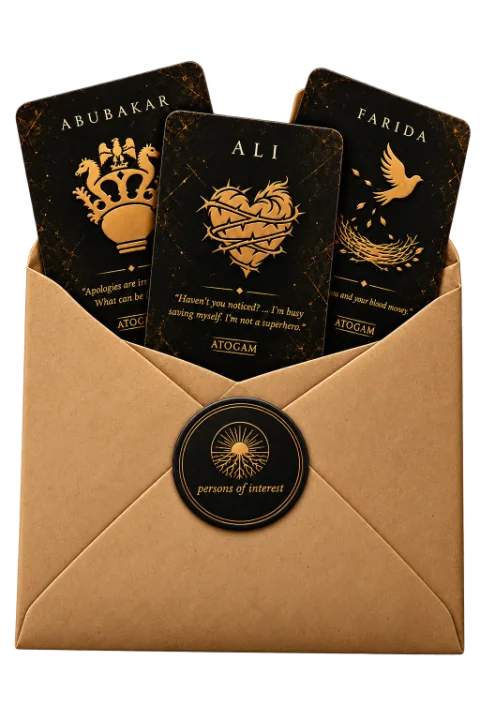
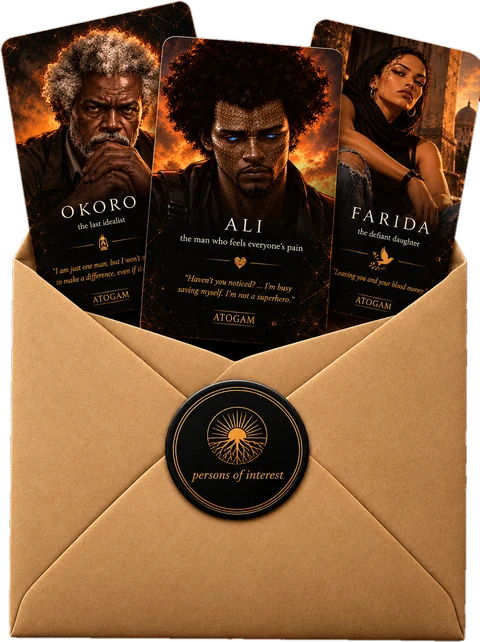
fixes

diff --git a/raindance/release.css b/raindance/release.css
@@ -185,7 +185,11 @@ body.rd {
     display: flex;
     align-items: center;
     justify-content: space-between;
+    transition: background-color 0.2s, border-color 0.2s;
+    border-bottom: 1px solid transparent;
 }
+/* Phone: clear over the first screen, solid once the page scrolls, so it never sits on top of content. */
+.s-header.is-solid { background: rgba(15, 11, 8, 0.94); border-bottom-color: rgba(239, 228, 207, 0.1); }
 .s-mark img { height: 20px; width: auto; }
 .s-nav { display: none; }
 .rd .s-pill {
@@ -377,7 +381,8 @@ body.rd {
     align-items: center;
     text-align: center;
     gap: 8px;
-    padding: 0 2px 12px;
+    padding: 14px 8px 10px;
+    border: 1px solid rgba(239, 228, 207, 0.12);
     border-radius: 3px;
 }
 .s-ed-img { height: 150px; display: flex; align-items: flex-end; justify-content: center; }
@@ -387,11 +392,12 @@ body.rd {
 .s-ed-hc { height: 150px; }
 .s-ed-name { font-family: var(--cinzel); font-weight: 700; font-size: 13px; color: var(--head); }
 .s-ed-price { font-family: var(--cinzel); font-weight: 700; font-size: 15px; color: var(--gold); }
-.s-ed-act { font-family: var(--cinzel); font-weight: 600; font-size: 10.5px; letter-spacing: 0.08em; color: #f2be48; }
-.s-ed:hover .s-ed-act { color: var(--link-hover); }
+/* A real button in each edition card, so the three books read as buyable. */
+.s-ed-act { width: 100%; height: 36px; margin-top: 4px; display: flex; align-items: center; justify-content: center; border-radius: 2px; background: var(--gold); font-family: var(--cinzel); font-weight: 700; font-size: 11px; letter-spacing: 0.1em; color: #1a120c; }
+.s-ed:hover .s-ed-act { background: #f6ce6e; }
 
 .s-bundle {
-    border: 1px solid var(--gold-line);
+    border: 1px solid rgba(239, 228, 207, 0.12);
     border-radius: 3px;
     background: var(--box);
     overflow: clip;
@@ -400,42 +406,27 @@ body.rd {
 }
 .s-bundle-art {
     position: relative;
-    height: 360px;
+    height: 280px;
     padding-top: 16px;
     display: flex;
     align-items: center;
     justify-content: center;
-    background: radial-gradient(ellipse at 50% 55%, rgba(207, 145, 62, 0.18), rgba(23, 17, 12, 0) 65%);
 }
-.s-bundle-art img { height: 330px; width: auto; filter: drop-shadow(0 20px 28px rgba(0, 0, 0, 0.6)); }
+.rd .s-bundle-art .tag { background: rgba(15, 11, 8, 0.85); color: var(--gold); box-shadow: inset 0 0 0 1px rgba(242, 190, 72, 0.35); }
+.s-bundle-art img { height: 250px; width: auto; filter: drop-shadow(0 20px 28px rgba(0, 0, 0, 0.6)); }
 .s-bundle-body { padding: 18px 18px 20px; display: flex; flex-direction: column; gap: 12px; }
 .s-bundle-head { display: flex; justify-content: space-between; align-items: baseline; gap: 10px; }
 .s-bundle-head h3 { font-family: var(--cinzel); font-weight: 700; font-size: 23px; line-height: 1.2; color: var(--head); }
 .s-bundle-head .price { font-size: 19px; }
-.s-parts { display: grid; grid-template-columns: 1fr 1fr; gap: 8px; }
-.s-parts li {
-    display: flex;
-    flex-direction: column;
-    align-items: center;
-    gap: 8px;
-    padding: 12px 8px 10px;
-    border: 1px solid rgba(239, 228, 207, 0.12);
-    border-radius: 3px;
-    background: var(--ground);
-    font-size: 13px;
-    line-height: 1.3;
-    color: var(--cream);
-    text-align: center;
-}
-.s-part-img { height: 118px; display: flex; align-items: center; justify-content: center; }
-.s-part-img img { max-height: 118px; object-fit: contain; filter: drop-shadow(0 8px 12px rgba(0, 0, 0, 0.5)); }
-.s-part-name { font-family: var(--cinzel); font-weight: 600; font-size: 13px; line-height: 1.3; color: var(--head); }
-.s-part-sub { margin-top: -4px; font-size: 12.5px; line-height: 1.4; color: var(--muted); }
-/* The hardcover leads the bundle: full width on phone, bigger image. */
-.s-parts .s-part-hc { grid-column: span 2; padding-top: 16px; background: radial-gradient(ellipse at 50% 45%, rgba(207, 145, 62, 0.16), var(--ground) 70%); border-color: var(--gold-dim); }
-.s-part-hc .s-part-img { height: 160px; }
-.s-part-hc .s-part-img img { max-height: 160px; }
-.s-part-hc .s-part-name { font-size: 15px; color: var(--gold); }
+/* What's inside: one quiet strip, as on the free page, so the box stays the hero. */
+.s-inside { margin-top: 2px; padding-top: 14px; border-top: 1px solid var(--hair); font-family: var(--cinzel); font-weight: 600; font-size: 10px; letter-spacing: 0.24em; color: var(--muted); text-align: center; }
+.s-parts { display: grid; grid-template-columns: repeat(5, minmax(0, 1fr)); gap: 4px; align-items: start; text-align: center; }
+.s-parts li { display: flex; flex-direction: column; align-items: center; gap: 6px; }
+.s-part-img { height: 82px; display: flex; align-items: flex-start; justify-content: center; }
+.s-part-img img { height: 82px; width: auto; max-width: 100%; object-fit: contain; filter: drop-shadow(0 6px 8px rgba(0, 0, 0, 0.6)); }
+.s-part-name { font-size: 12px; line-height: 1.25; color: var(--cream); }
+/* The tee render has its own dark backdrop: fade its edges into the card. */
+.s-part-tee { -webkit-mask-image: radial-gradient(ellipse 50% 50% at 50% 50%, #000 70%, transparent 100%); mask-image: radial-gradient(ellipse 50% 50% at 50% 50%, #000 70%, transparent 100%); }
 .s-bundle-cta { display: flex; flex-direction: column; gap: 12px; }
 .s-bundle-cta .note { font-size: 13px; color: var(--muted); text-align: center; }
 .s-ed-foot { padding: 6px 8px 0; font-size: 13px; line-height: 1.5; color: var(--muted); text-align: center; }
@@ -693,23 +684,22 @@ body.rd {
     .s-ed-hc { height: 170px; }
     .s-ed-name { font-size: 16px; }
     .s-ed-price { font-size: 18px; }
-    .s-ed-act { font-size: 12px; }
-    .s-bundle-art { height: auto; min-height: 420px; padding-top: 0; background: radial-gradient(ellipse at 50% 55%, rgba(207, 145, 62, 0.2), rgba(23, 17, 12, 0) 65%); }
+    .s-ed-act { height: 42px; font-size: 12.5px; }
+    .s-bundle-art { height: auto; min-height: 420px; padding-top: 0; }
     .s-bundle-art img { height: 380px; }
     .s-bundle-art .tag { left: 16px; top: 16px; }
-    .s-bundle-body { padding: 36px; gap: 18px; }
+    .s-bundle { display: grid; grid-template-columns: 1fr 1.3fr; }
+    .s-inside { padding-top: 0; border: 0; font-size: 12px; letter-spacing: 0.3em; text-align: left; }
+    .s-bundle-body { padding: 36px; gap: 18px; justify-content: center; }
     .s-bundle-head { gap: 12px; }
     .s-bundle-head h3 { font-size: 30px; }
     .s-bundle-head .price { font-size: 24px; }
-    .s-parts { grid-template-columns: repeat(5, minmax(0, 1fr)); gap: 10px; }
-    .s-parts .s-part-hc { grid-column: auto; padding-top: 12px; }
-    .s-part-hc .s-part-img { height: 90px; }
-    .s-part-hc .s-part-img img { max-height: 90px; }
-    .s-part-hc .s-part-name { font-size: 13px; }
-    .s-parts li { padding: 12px 6px; }
-    .s-part-img { height: 90px; }
-    .s-part-img img { max-height: 90px; filter: none; }
-    .s-bundle-cta { flex-direction: row; align-items: center; gap: 18px; }
+    .s-parts { gap: 10px; }
+    .s-part-img { height: 96px; align-items: center; }
+    .s-part-img img { height: auto; max-height: 96px; }
+    .s-part-name { font-size: 13.5px; line-height: 1.3; }
+    .s-bundle-cta { align-items: flex-start; gap: 12px; }
+    .s-bundle-cta .btn { padding: 0 32px; white-space: nowrap; }
     .s-bundle-cta .note { font-size: 14px; text-align: left; }
     .s-ed-foot { text-align: left; padding: 0; font-size: 14px; }
 

diff --git a/raindance/index.html b/raindance/index.html
@@ -28,8 +28,8 @@
     <link rel="preconnect" href="https://fonts.googleapis.com">
     <link rel="preconnect" href="https://fonts.gstatic.com" crossorigin>
     <link href="https://fonts.googleapis.com/css2?family=Cinzel:wght@400;600;700&family=Spectral:ital,wght@0,300;0,400;0,500;0,600;1,300;1,400&display=swap" rel="stylesheet">
-    <link rel="stylesheet" href="/raindance/release.css?v=20261008e">
-    <script src="/raindance/release.js?v=20261008e"></script>
+    <link rel="stylesheet" href="/raindance/release.css?v=20261008k">
+    <script src="/raindance/release.js?v=20261008k"></script>
 
     <!-- Meta Pixel Code -->
     <script>
@@ -186,19 +186,19 @@
                     <span class="s-ed-img"><img class="s-ed-eb" src="/raindance/assets/web/p-ebook.webp" alt="" width="720" height="712" loading="lazy"></span>
                     <span class="s-ed-name">Ebook</span>
                     <span class="s-ed-price">₦5,000</span>
-                    <span class="s-ed-act" data-label>BUY →</span>
+                    <span class="s-ed-act" data-label data-after="BUY">PREORDER</span>
                 </a>
                 <a class="s-ed" href="#" data-pay="paperback" data-name="Paperback">
                     <span class="s-ed-img"><img class="s-ed-pb" src="/raindance/assets/web/p-paperback.webp" alt="" width="636" height="720" loading="lazy"></span>
                     <span class="s-ed-name">Paperback</span>
                     <span class="s-ed-price">₦10,000</span>
-                    <span class="s-ed-act" data-label data-after="BUY →">PREORDER →</span>
+                    <span class="s-ed-act" data-label data-after="BUY">PREORDER</span>
                 </a>
                 <a class="s-ed" href="#" data-pay="hardcover" data-name="Hardcover">
                     <span class="s-ed-img"><img class="s-ed-hc" src="/raindance/assets/web/p-hardcover.webp" alt="" width="720" height="687" loading="lazy"></span>
                     <span class="s-ed-name">Hardcover</span>
                     <span class="s-ed-price">₦25,000</span>
-                    <span class="s-ed-act" data-label data-after="BUY →">PREORDER →</span>
+                    <span class="s-ed-act" data-label data-after="BUY">PREORDER</span>
                 </a>
             </div>
 
@@ -212,16 +212,17 @@
                         <h3>The Raindance Bundle</h3>
                         <span class="price">₦50,000</span>
                     </div>
+                    <p class="s-inside">WHAT’S INSIDE</p>
                     <ul class="s-parts">
-                        <li class="s-part-hc"><span class="s-part-img"><img src="/raindance/assets/web/p-hardcover.webp" alt="" loading="lazy"></span><span class="s-part-name">Signed hardcover</span><span class="s-part-sub">Hand-numbered, one of 50</span></li>
-                        <li><span class="s-part-img"><img src="/raindance/assets/web/p-shirt-mask.webp" alt="" loading="lazy"></span><span class="s-part-name">Rainmaker tee</span></li>
-                        <li><span class="s-part-img"><img src="/raindance/assets/web/p-envelope-cards.webp" alt="" loading="lazy"></span><span class="s-part-name">Six character cards</span></li>
-                        <li><span class="s-part-img"><img src="/raindance/assets/web/p-paper-folded.webp" alt="" loading="lazy"></span><span class="s-part-name">The Nigerian Sentinel front page</span></li>
-                        <li><span class="s-part-img"><img src="/raindance/assets/web/p-bookmark.webp" alt="" loading="lazy"></span><span class="s-part-name">Series bookmark</span></li>
+                        <li><span class="s-part-img"><img src="/raindance/assets/web/p-hardcover.webp" alt="" loading="lazy"></span><span class="s-part-name">Signed hardcover</span></li>
+                        <li><span class="s-part-img"><img class="s-part-tee" src="/raindance/assets/web/p-shirt-mask.webp" alt="" loading="lazy"></span><span class="s-part-name">Rainmaker tee</span></li>
+                        <li><span class="s-part-img"><img src="/raindance/assets/web/p-envelope-cards.webp?v=2" alt="" loading="lazy"></span><span class="s-part-name">Character cards</span></li>
+                        <li><span class="s-part-img"><img src="/raindance/assets/web/p-paper-folded.webp" alt="" loading="lazy"></span><span class="s-part-name">Sentinel front page</span></li>
+                        <li><span class="s-part-img"><img src="/raindance/assets/web/p-bookmark.webp" alt="" loading="lazy"></span><span class="s-part-name">Bookmark</span></li>
                     </ul>
                     <div class="s-bundle-cta">
                         <a class="btn btn-gold" href="#" data-pay="bundle" data-name="Raindance Bundle" data-after="BUY THE BUNDLE">PREORDER THE BUNDLE</a>
-                        <p class="note">Numbers go in order of payment.</p>
+                        <p class="note">Only 50 made, each hardcover numbered in order of payment.</p>
                     </div>
                 </div>
             </div>
@@ -346,6 +347,6 @@
     </nav>
 </footer>
 
-<script src="/raindance/sales.js?v=20261008e"></script>
+<script src="/raindance/sales.js?v=20261008k"></script>
 </body>
 </html>

diff --git a/raindance/free.html b/raindance/free.html
@@ -28,8 +28,8 @@
     <link rel="preconnect" href="https://fonts.googleapis.com">
     <link rel="preconnect" href="https://fonts.gstatic.com" crossorigin>
     <link href="https://fonts.googleapis.com/css2?family=Cinzel:wght@400;600;700&family=Spectral:ital,wght@0,300;0,400;0,500;1,300;1,400&display=swap" rel="stylesheet">
-    <link rel="stylesheet" href="/raindance/release.css?v=20261008e">
-    <script src="/raindance/release.js?v=20261008e"></script>
+    <link rel="stylesheet" href="/raindance/release.css?v=20261008k">
+    <script src="/raindance/release.js?v=20261008k"></script>
 
     <!-- Meta Pixel Code -->
     <script>
@@ -134,7 +134,7 @@
                 <ul class="f-fan-items">
                     <li><span><img src="/raindance/assets/web/p-paperback.webp" alt="" loading="lazy"></span>Signed paperback</li>
                     <li><span><img src="/raindance/assets/web/p-shirt-mask.webp" alt="" loading="lazy"></span>Rainmaker tee</li>
-                    <li><span><img src="/raindance/assets/web/p-envelope-cards.webp" alt="" loading="lazy"></span>Character cards</li>
+                    <li><span><img src="/raindance/assets/web/p-envelope-cards.webp?v=2" alt="" loading="lazy"></span>Character cards</li>
                     <li><span><img src="/raindance/assets/web/p-paper-folded.webp" alt="" loading="lazy"></span>Sentinel front page</li>
                     <li><span><img src="/raindance/assets/web/p-bookmark.webp" alt="" loading="lazy"></span>Bookmark</li>
                 </ul>
@@ -321,6 +321,6 @@
     </div>
 </section>
 
-<script src="/raindance/free.js?v=20261008e"></script>
+<script src="/raindance/free.js?v=20261008k"></script>
 </body>
 </html>

diff --git a/raindance/privacy.html b/raindance/privacy.html
@@ -23,8 +23,8 @@
     <link rel="preconnect" href="https://fonts.googleapis.com">
     <link rel="preconnect" href="https://fonts.gstatic.com" crossorigin>
     <link href="https://fonts.googleapis.com/css2?family=Cinzel:wght@400;600;700&family=Spectral:ital,wght@0,300;0,400;0,500;1,300;1,400&display=swap" rel="stylesheet">
-    <link rel="stylesheet" href="/raindance/release.css?v=20261008e">
-    <script src="/raindance/release.js?v=20261008e"></script>
+    <link rel="stylesheet" href="/raindance/release.css?v=20261008k">
+    <script src="/raindance/release.js?v=20261008k"></script>
 
     <!-- Meta Pixel Code -->
     <script>

diff --git a/raindance/sample.html b/raindance/sample.html
@@ -28,8 +28,8 @@
     <link rel="preconnect" href="https://fonts.googleapis.com">
     <link rel="preconnect" href="https://fonts.gstatic.com" crossorigin>
     <link href="https://fonts.googleapis.com/css2?family=Cinzel:wght@400;600;700&family=Spectral:ital,wght@0,300;0,400;0,500;1,300;1,400&display=swap" rel="stylesheet">
-    <link rel="stylesheet" href="/raindance/release.css?v=20261008e">
-    <script src="/raindance/release.js?v=20261008e"></script>
+    <link rel="stylesheet" href="/raindance/release.css?v=20261008k">
+    <script src="/raindance/release.js?v=20261008k"></script>
 
     <!-- Meta Pixel Code -->
     <script>

diff --git a/raindance/share.html b/raindance/share.html
@@ -23,8 +23,8 @@
     <link rel="preconnect" href="https://fonts.googleapis.com">
     <link rel="preconnect" href="https://fonts.gstatic.com" crossorigin>
     <link href="https://fonts.googleapis.com/css2?family=Cinzel:wght@400;600;700&family=Spectral:ital,wght@0,300;0,400;0,500;1,300;1,400&display=swap" rel="stylesheet">
-    <link rel="stylesheet" href="/raindance/release.css?v=20261008e">
-    <script src="/raindance/release.js?v=20261008e"></script>
+    <link rel="stylesheet" href="/raindance/release.css?v=20261008k">
+    <script src="/raindance/release.js?v=20261008k"></script>
 
     <!-- Meta Pixel Code -->
     <script>

diff --git a/raindance/terms.html b/raindance/terms.html
@@ -23,8 +23,8 @@
     <link rel="preconnect" href="https://fonts.googleapis.com">
     <link rel="preconnect" href="https://fonts.gstatic.com" crossorigin>
     <link href="https://fonts.googleapis.com/css2?family=Cinzel:wght@400;600;700&family=Spectral:ital,wght@0,300;0,400;0,500;1,300;1,400&display=swap" rel="stylesheet">
-    <link rel="stylesheet" href="/raindance/release.css?v=20261008e">
-    <script src="/raindance/release.js?v=20261008e"></script>
+    <link rel="stylesheet" href="/raindance/release.css?v=20261008k">
+    <script src="/raindance/release.js?v=20261008k"></script>
 
     <!-- Meta Pixel Code -->
     <script>

diff --git a/raindance/thanks.html b/raindance/thanks.html
@@ -24,8 +24,8 @@
     <link rel="preconnect" href="https://fonts.googleapis.com">
     <link rel="preconnect" href="https://fonts.gstatic.com" crossorigin>
     <link href="https://fonts.googleapis.com/css2?family=Cinzel:wght@400;600;700&family=Spectral:ital,wght@0,300;0,400;0,500;1,300;1,400&display=swap" rel="stylesheet">
-    <link rel="stylesheet" href="/raindance/release.css?v=20261008e">
-    <script src="/raindance/release.js?v=20261008e"></script>
+    <link rel="stylesheet" href="/raindance/release.css?v=20261008k">
+    <script src="/raindance/release.js?v=20261008k"></script>
 
     <!-- Meta Pixel Code -->
     <script>

diff --git a/raindance/sales.js b/raindance/sales.js
@@ -40,6 +40,12 @@ const CONFIG = {
     }
   });
 
+  // ----- Header: solid background once scrolled (phone header is sticky) -----
+  const header = document.querySelector(".s-header");
+  function solidHeader() { header.classList.toggle("is-solid", window.scrollY > 40); }
+  window.addEventListener("scroll", solidHeader, { passive: true });
+  solidHeader();
+
   // ----- Founding Patron seats -----
   const taken = Math.max(0, Math.min(20, CONFIG.placesTaken | 0));
   let seats = "";
